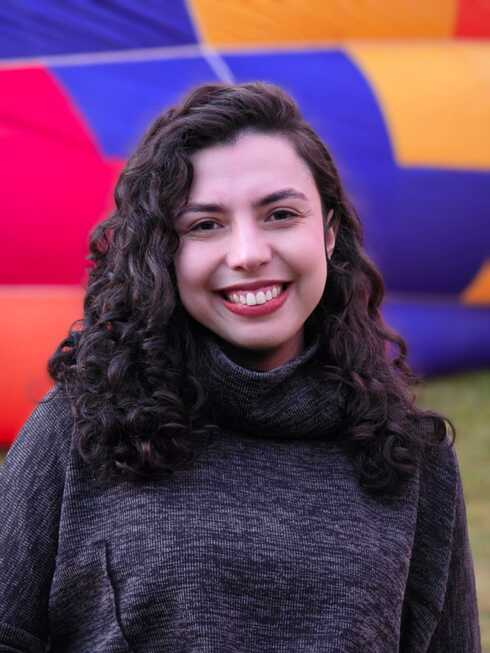
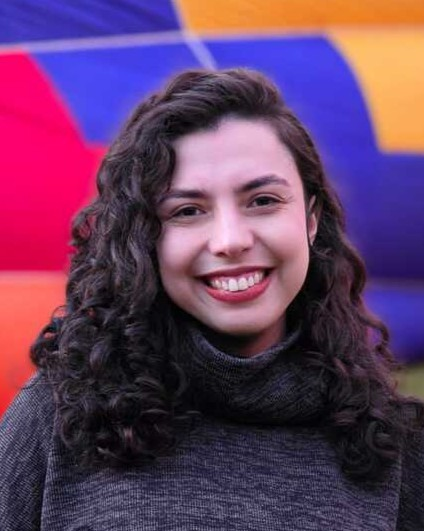
style: adiciona gap no conteudo e estiliza imagem

diff --git a/style.css b/style.css
@@ -1,58 +1,65 @@
-@import url('https://fonts.googleapis.com/css2?family=Krona+One&family=Montserrat:ital,wght@0,100..900;1,100..900&family=Poppins:ital,wght@0,100;0,200;0,300;0,400;0,500;0,600;0,700;0,800;0,900;1,100;1,200;1,300;1,400;1,500;1,600;1,700;1,800;1,900&display=swap');
+@import url('https://fonts.googleapis.com/css2?family=Krona+One&family=Montserrat:wght@400;600&display=swap');
 
 *{
-  margin: 0;
-  padding: 0;
+    margin: 0;
+    padding: 0;
 }
 
-body {
-  height: 100vh;
-  box-sizing: border-box;
-  background-color: #000000;
-  color: #F6F6F6;
+body{
+    height: 100vh;
+    box-sizing: border-box;
+    background-color: #000000;
+    color: #F6F6F6;
 }
 
-.titulo-destaque {
-  color: #3d2ea5;
+.titulo-destaque{
+    color: #413ad6;
 }
 
-.apresentacao {
-  margin:10%;
-  display: flex;
-  align-items: center;
-  justify-content: space-between;
+.apresentacao{
+    margin: 10% 15%;
+    display: flex;
+    align-items: center;
+    justify-content: space-between;
+}
+.apresentacao__conteudo{
+    width: 615px;
+    display: flex;
+    flex-direction: column;
+    gap: 40px;
 }
 
-.apresentacao__conteudo {
-  width: 615px;
+.apresentacao__conteudo__titulo{
+    font-size: 36px;
+    font-family: 'Krona One', sans-serif;
 }
 
-.apresentacao__conteudo__titulo {
-  font-size: 36px;
-  font-family: 'Krona One', sans-serif;
+.apresentacao__conteudo__texto{
+    font-size: 24px;
+    font-family: 'Montserrat', sans-serif;
 }
 
-.apresentacao__conteudo__texto {
-  font-size: 24px;
-  font-family: 'Montserrat', sans-serif;
-
+.apresentacao__links{
+    display: flex;
+    justify-content: space-between;
 }
 
-.apresentacao__links {
-  display: flex;
-  justify-content: space-between;
-
+.apresentacao__links__link{
+    background-color: #413ad6;
+    width: 280px;
+    text-align: center;
+    border-radius: 16px;
+    font-size: 24px;
+    font-weight: 600;
+    padding: 21.5px 0;
+    text-decoration: none;
+    color: #F6F6F6;
+    font-family: 'Montserrat', sans-serif;
 }
 
-.apresentacao__links__link {
-  background-color: #22d4fd;
-  width: 280px;
-  text-align: center;
-  border-radius: 16px;
-  font-size: 24px;
-  font-weight: 600;
-  padding: 21.5px 0;
-  text-decoration: none;
-  color: #000000;
-  font-family: 'Montserrat', sans-serif;
+.apresentacao__imagem{
+    width: 400px;
+    height: 400px;
+    border-radius: 50%;
+    object-fit: cover;
 }

diff --git a/index.html b/index.html
@@ -2,24 +2,26 @@
 <html lang="pt-br">
   <head>
     <meta charset="UTF-8" />
+    <meta http-equiv="X-UA-Compatible" content="IE=edge" />
     <meta name="viewport" content="width=device-width, initial-scale=1.0" />
-    <title>Portfolio</title>
+    <title>Portifolio</title>
     <link rel="stylesheet" href="style.css" />
   </head>
+
   <body>
     <header></header>
     <main class="apresentacao">
-      <section class="aprensentacao__conteudo">
+      <section class="apresentacao__conteudo">
         <h1 class="apresentacao__conteudo__titulo">
           Eleve seu negócio digital a outro nível
           <strong class="titulo-destaque"
-            >com um Front-end de qualidade!</strong
-          >
+            >com um Front-end de qualidade!
+          </strong>
         </h1>
         <p class="apresentacao__conteudo__texto">
           Olá! Sou Kelly Adão, desenvolvedora Front-end com especialidade em
-          <strong>React, HTML e CSS</strong>. Ajudo pequenos negócios e
-          designers a colocarem em prática boas ideias. Vamos conversar?
+          React, HTML e CSS. Ajudo pequenos negócios e designers a colocarem em
+          prática boas ideias. Vamos conversar?
         </p>
         <div class="apresentacao__links">
           <a
@@ -35,9 +37,9 @@
         </div>
       </section>
       <img
-        src="imagens/WhatsApp Image 2025-07-21 at 21.56.54 (2).jpeg"
-        alt="Foto de
-      Kelly"
+        class="apresentacao__imagem"
+        src="imagens/imagem.jpeg"
+        alt="Foto de Kelly"
       />
     </main>
     <footer></footer>
